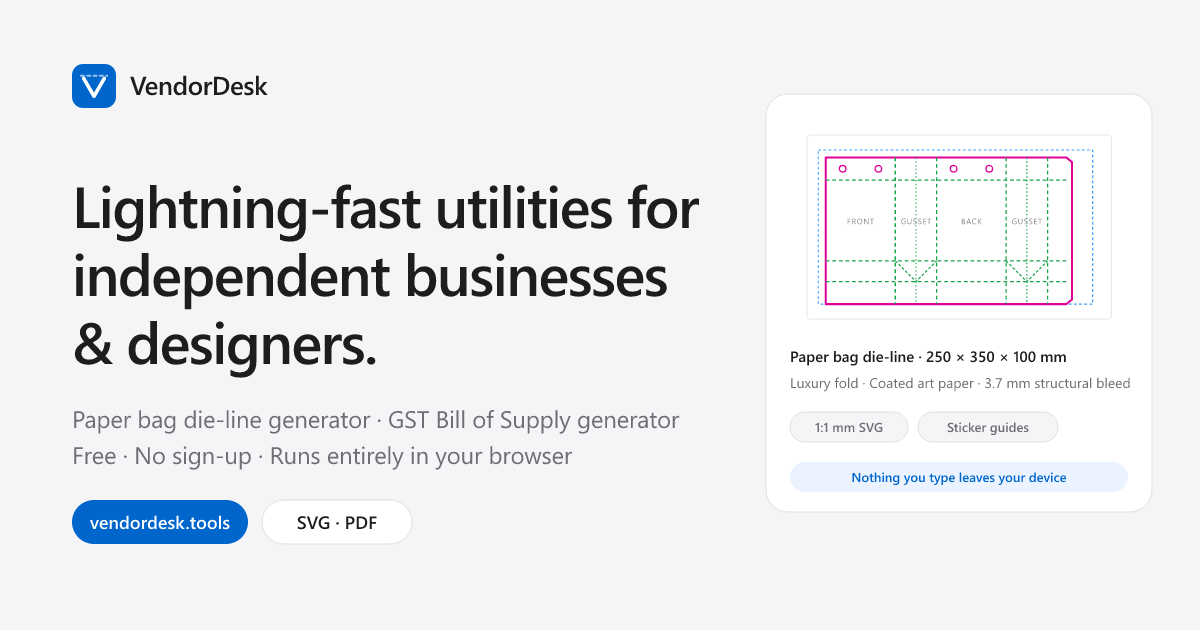
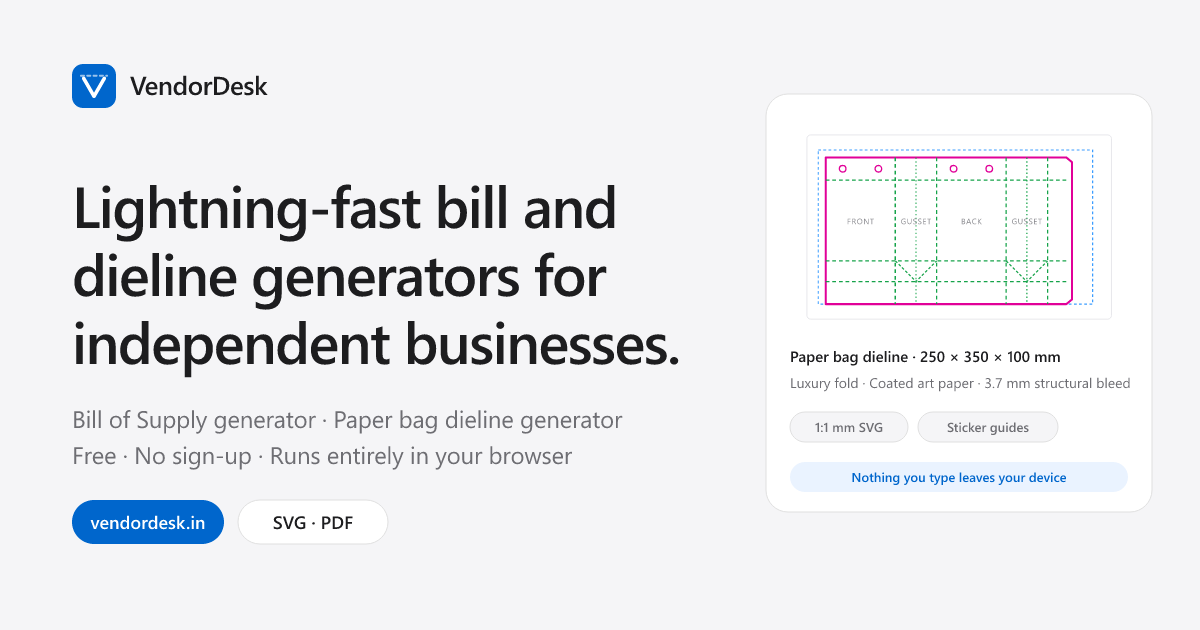
Switch the canonical domain to vendordesk.in and add Workers deploy config
Chose the .in ccTLD over .tools: Google removed Search Console's manual
country-targeting control in 2022, so a ccTLD is now the reliable India
geotargeting signal — and the bill of supply tool serves India-only queries.

Domain updated everywhere it was baked in, including two places that reach
customers rather than just crawlers:
- SITE.url and legalName, astro.config `site` (canonicals, sitemap, JSON-LD)
- public/robots.txt sitemap line
- the credit line rendered into every exported dieline SVG
- the footer of every generated Bill of Supply PDF
- the share link the dieline "Copy summary" button produces
- og.png, which had the domain rasterised into it

Regenerated og.png, which was also still carrying the pre-SEO headline and
the hyphenated "die-line"; it now matches the current H1 and spelling.

Adds wrangler.jsonc for a static-assets-only Worker (Pages is in maintenance
mode; Cloudflare directs new projects to Workers). Two settings matter:
html_handling "drop-trailing-slash" so /about/ redirects to /about and agrees
with our trailingSlash:'never' canonicals instead of fighting them, and
not_found_handling "404-page" to serve Astro's built 404.html.

Verified: no "vendordesk.tools" string remains in source or build output;
canonicals, sitemap, robots and og:url all resolve to vendordesk.in.

diff --git a/src/scripts/dieline.ts b/src/scripts/dieline.ts
@@ -452,7 +452,7 @@ export function renderSvg(input: DielineInput, r: DielineResult, opts: RenderOpt
 				lx += fs * (3.2 + name.length * 0.55);
 			}
 			parts.push(
-				`<text x="${n(FW)}" y="${n(FH + margin + fs * 2.2)}" font-size="${n(fs * 0.7)}" fill="${INK.label}" text-anchor="end">Generated with vendordesk.tools · verify with a physical mock-up before production</text>`,
+				`<text x="${n(FW)}" y="${n(FH + margin + fs * 2.2)}" font-size="${n(fs * 0.7)}" fill="${INK.label}" text-anchor="end">Generated with vendordesk.in · verify with a physical mock-up before production</text>`,
 			);
 		}
 		parts.push('</g>');
@@ -491,7 +491,7 @@ export function summaryText(input: DielineInput, r: DielineResult, unit: Unit): 
 		primary,
 		secondary,
 		'',
-		`https://vendordesk.tools/paper-bag-die-line-generator?${toSearchParams(input, unit).toString()}`,
+		`https://vendordesk.in/paper-bag-die-line-generator?${toSearchParams(input, unit).toString()}`,
 	].join('\n');
 }
 

diff --git a/src/lib/site.ts b/src/lib/site.ts
@@ -1,7 +1,7 @@
 export const SITE = {
 	name: 'VendorDesk',
-	legalName: 'VendorDesk.tools',
-	url: 'https://vendordesk.tools',
+	legalName: 'VendorDesk.in',
+	url: 'https://vendordesk.in',
 	email: 'hello@vendordesk.in',
 	tagline: 'Lightning-fast utilities for independent businesses & designers.',
 	// Kept under ~155 characters so Google shows it without truncating.
